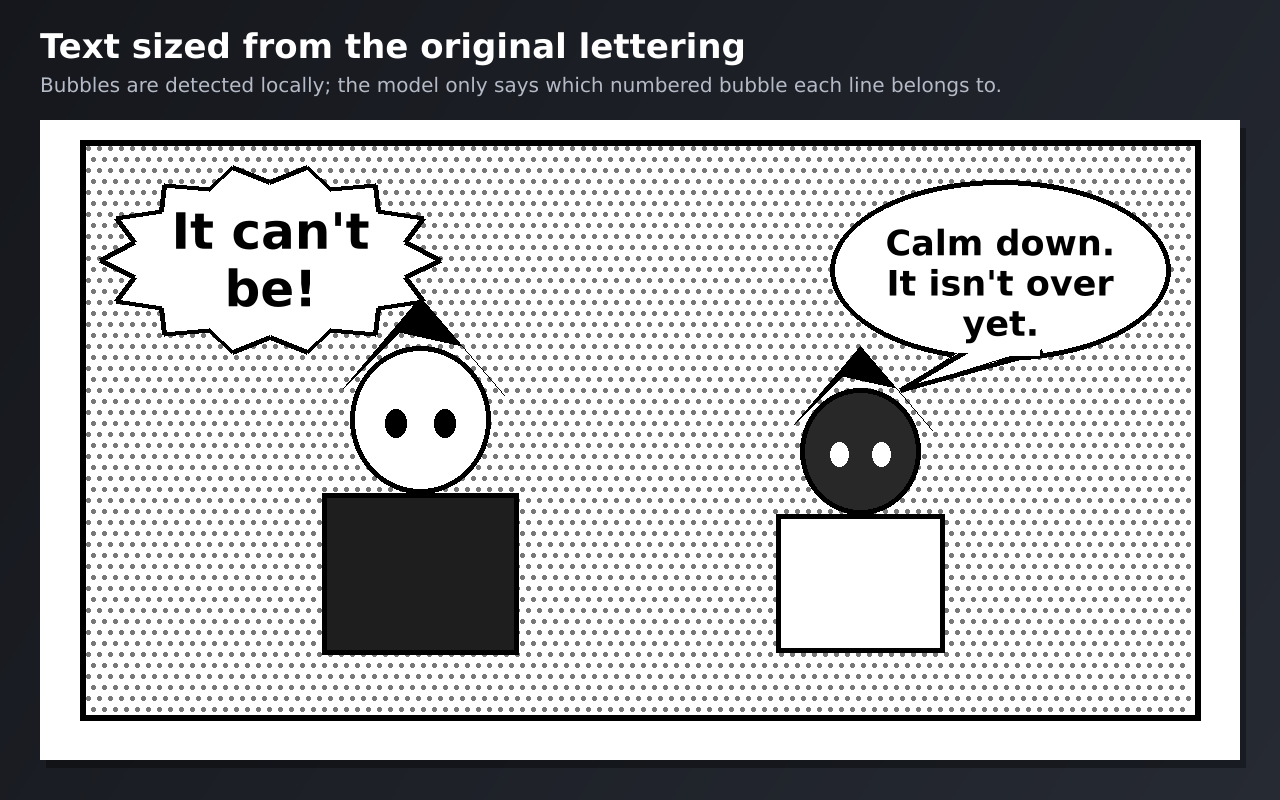
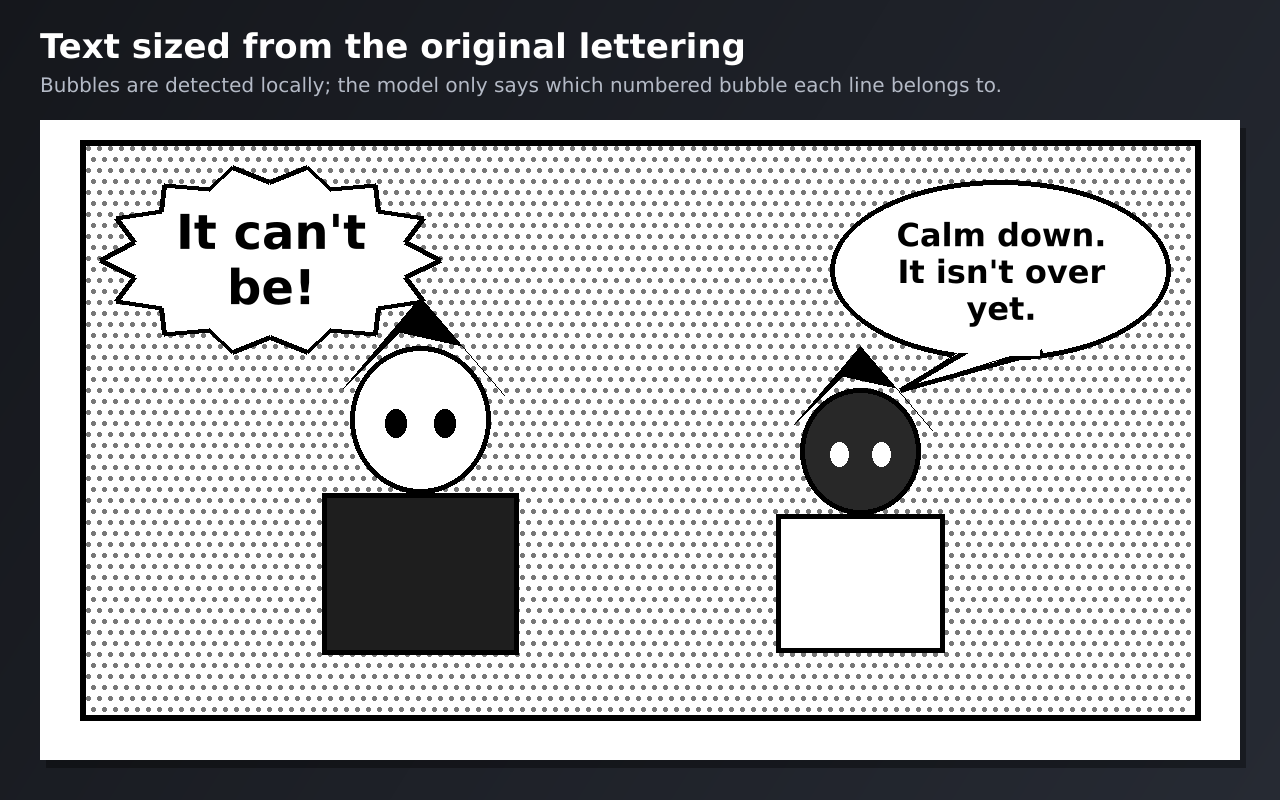
Typesetting: text area is the largest rectangle inside the bubble mask; joined bubbles split at the waist; eraser zone capped; no hyphenation of short words
Fixes the regression where text was centred in a bounding-box band and left the
bubble. Adds a joined bubble to the synthetic demo page and a stress test with
deliberately wrong model boxes.

Claude-Session: https://claude.ai/code/session_01HC7DG1xgeqgY9rhdzbcHRJ

Changed region(s): [[0.6875, 0.2812, 0.875, 0.4375], [0.125, 0.25, 0.2812, 0.3125], [0.1562, 0.3438, 0.25, 0.4062]]

diff --git a/extension/typeset.js b/extension/typeset.js
@@ -46,6 +46,57 @@
     const ix = (1 - k) / 2, iy = (1 - k) / 2;
     return { x: bbox.x + bbox.w * ix, y: bbox.y + bbox.h * iy, w: bbox.w * k, h: bbox.h * k };
   }
+  /**
+   * Largest axis-aligned rectangle (approx.) inside a region, sampled from its
+   * `inside(x,y)` predicate within `bbox` and optionally a row window.
+   * Rows are scanned for their longest inside run; the rectangle is the best
+   * window of consecutive rows × the intersection of their runs.
+   */
+  function inscribedRect(inside, bbox, y0 = bbox.y, y1 = bbox.y + bbox.h) {
+    const step = Math.max(1, Math.round(Math.min(bbox.w, bbox.h) / 60));
+    const rows = [];
+    for (let y = Math.ceil(y0); y < y1; y += step) {
+      let best = null, runStart = null;
+      for (let x = bbox.x; x <= bbox.x + bbox.w; x += step) {
+        const inn = x < bbox.x + bbox.w && inside(x, y);
+        if (inn && runStart === null) runStart = x;
+        if (!inn && runStart !== null) { if (!best || x - runStart > best.w) best = { x: runStart, w: x - runStart }; runStart = null; }
+      }
+      if (runStart !== null) { const end = bbox.x + bbox.w; if (!best || end - runStart > best.w) best = { x: runStart, w: end - runStart }; }
+      rows.push(best ? { y, x0: best.x, x1: best.x + best.w } : null);
+    }
+    let bestArea = 0, bestRect = null;
+    for (let i = 0; i < rows.length; i++) {
+      if (!rows[i]) continue;
+      let x0 = rows[i].x0, x1 = rows[i].x1;
+      for (let j = i; j < rows.length; j++) {
+        if (!rows[j]) break;
+        x0 = Math.max(x0, rows[j].x0); x1 = Math.min(x1, rows[j].x1);
+        if (x1 <= x0) break;
+        const h = rows[j].y - rows[i].y + step, area = (x1 - x0) * h;
+        if (area > bestArea) { bestArea = area; bestRect = { x: x0, y: rows[i].y, w: x1 - x0, h }; }
+      }
+    }
+    if (!bestRect) return null;
+    // small inset so letters don't kiss the outline
+    const k = 0.92;
+    return { x: bestRect.x + bestRect.w * (1 - k) / 2, y: bestRect.y + bestRect.h * (1 - k) / 2, w: bestRect.w * k, h: bestRect.h * k };
+  }
+
+  /** Row (y) with the narrowest inside span between ya and yb — the "waist" between two lobes. */
+  function waistRow(inside, bbox, ya, yb) {
+    const lo = Math.min(ya, yb), hi = Math.max(ya, yb);
+    if (hi - lo < 6) return (lo + hi) / 2;
+    const step = Math.max(1, Math.round((hi - lo) / 40));
+    let best = (lo + hi) / 2, bestW = Infinity;
+    for (let y = lo; y <= hi; y += step) {
+      let w = 0;
+      for (let x = bbox.x; x < bbox.x + bbox.w; x += step) if (inside(x, y)) w++;
+      if (w < bestW) { bestW = w; best = y; }
+    }
+    return best;
+  }
+
   function makeCanvas(w, h) {
     const c = document.createElement("canvas");
     c.width = w; c.height = h;
@@ -184,27 +235,40 @@
       const mul = SIZE_MUL[it.size] || 1;
       if (key) {
         const g = regions.get(key);
-        const { bbox, fillRatio, color } = g.region;
-        const inner = innerRect(bbox, fillRatio);
+        const { bbox, fillRatio, color, inside } = g.region;
         let rect;
         if (g.items.length === 1) {
-          // The detected bubble is authoritative; the model's box is not used
-          // to grow the text area (its coordinates are approximate).
-          rect = inner;
+          // The detected bubble is authoritative: text goes in the largest
+          // rectangle inside its actual shape (the model's box is approximate).
+          rect = inscribedRect(inside, bbox) || innerRect(bbox, fillRatio);
         } else {
-          // Joined bubble: split the interior between its speakers in reading
-          // order (vertical bands), nudged toward each one's own box when given.
-          const idx = g.items.findIndex((j) => j.it === it), n = g.items.length;
-          rect = { x: inner.x, y: inner.y + (inner.h / n) * idx, w: inner.w, h: inner.h / n };
-          if (box) {
-            const bx = clampRect({ x: box.x - box.w * 0.15, y: box.y - box.h * 0.15, w: box.w * 1.3, h: box.h * 1.3 }, inner);
-            if (bx.w * bx.h > rect.w * rect.h * 0.5) rect = bx;
+          // Joined bubble: cut the region at the waists between consecutive
+          // speakers (ordered top-to-bottom by their boxes, else evenly), then
+          // inscribe each lobe.
+          if (!g.cuts) {
+            const n = g.items.length;
+            const centres = g.items.map((j, i) => j.box ? j.box.y + j.box.h / 2 : bbox.y + bbox.h * (i + 0.5) / n);
+            const order = centres.map((c, i) => [c, i]).sort((a, b) => a[0] - b[0]);
+            const edges = [bbox.y];
+            for (let k = 0; k < n - 1; k++) edges.push(waistRow(inside, bbox, order[k][0], order[k + 1][0]));
+            edges.push(bbox.y + bbox.h);
+            g.cuts = new Map(order.map(([, i], k) => [i, [edges[k], edges[k + 1]]]));
           }
+          const idx = g.items.findIndex((j) => j.it === it);
+          const [ya, yb] = g.cuts.get(idx);
+          rect = inscribedRect(inside, bbox, ya, yb) || { x: bbox.x + bbox.w * 0.15, y: ya + (yb - ya) * 0.1, w: bbox.w * 0.7, h: (yb - ya) * 0.8 };
         }
         placements.push({ text, rect, color: G.isDark(color) ? "#fff" : "#000", target: sizeFor(g.letter, mul), minSize: Math.max(7, Math.round(base * 0.4)) });
       } else if (box) {
         const pad = Math.max(4, Math.min(box.w, box.h) * 0.16);
-        const zone = clampRect({ x: box.x - pad, y: box.y - pad, w: box.w + 2 * pad, h: box.h + 2 * pad }, page);
+        let zone = clampRect({ x: box.x - pad, y: box.y - pad, w: box.w + 2 * pad, h: box.h + 2 * pad }, page);
+        // A wrong, oversized model box must not wipe artwork: cap the zone to
+        // ~2.5× the area this text needs at page size, centred on the box.
+        const need = text.length * pageLetter * 0.55 * pageLetter * 1.15 * 2.5;
+        if (zone.w * zone.h > need) {
+          const k = Math.sqrt(need / (zone.w * zone.h));
+          zone = clampRect({ x: zone.x + zone.w * (1 - k) / 2, y: zone.y + zone.h * (1 - k) / 2, w: zone.w * k, h: zone.h * k }, page);
+        }
         const erased = G.eraseTextZone(ctx, pixels, zone, { radius: Math.max(3, Math.round(base * 0.12)) });
         if (erased) {
           const letter = G.estimateLetterSize(pixels, zone, null);

diff --git a/web/typeset.js b/web/typeset.js
@@ -46,6 +46,57 @@
     const ix = (1 - k) / 2, iy = (1 - k) / 2;
     return { x: bbox.x + bbox.w * ix, y: bbox.y + bbox.h * iy, w: bbox.w * k, h: bbox.h * k };
   }
+  /**
+   * Largest axis-aligned rectangle (approx.) inside a region, sampled from its
+   * `inside(x,y)` predicate within `bbox` and optionally a row window.
+   * Rows are scanned for their longest inside run; the rectangle is the best
+   * window of consecutive rows × the intersection of their runs.
+   */
+  function inscribedRect(inside, bbox, y0 = bbox.y, y1 = bbox.y + bbox.h) {
+    const step = Math.max(1, Math.round(Math.min(bbox.w, bbox.h) / 60));
+    const rows = [];
+    for (let y = Math.ceil(y0); y < y1; y += step) {
+      let best = null, runStart = null;
+      for (let x = bbox.x; x <= bbox.x + bbox.w; x += step) {
+        const inn = x < bbox.x + bbox.w && inside(x, y);
+        if (inn && runStart === null) runStart = x;
+        if (!inn && runStart !== null) { if (!best || x - runStart > best.w) best = { x: runStart, w: x - runStart }; runStart = null; }
+      }
+      if (runStart !== null) { const end = bbox.x + bbox.w; if (!best || end - runStart > best.w) best = { x: runStart, w: end - runStart }; }
+      rows.push(best ? { y, x0: best.x, x1: best.x + best.w } : null);
+    }
+    let bestArea = 0, bestRect = null;
+    for (let i = 0; i < rows.length; i++) {
+      if (!rows[i]) continue;
+      let x0 = rows[i].x0, x1 = rows[i].x1;
+      for (let j = i; j < rows.length; j++) {
+        if (!rows[j]) break;
+        x0 = Math.max(x0, rows[j].x0); x1 = Math.min(x1, rows[j].x1);
+        if (x1 <= x0) break;
+        const h = rows[j].y - rows[i].y + step, area = (x1 - x0) * h;
+        if (area > bestArea) { bestArea = area; bestRect = { x: x0, y: rows[i].y, w: x1 - x0, h }; }
+      }
+    }
+    if (!bestRect) return null;
+    // small inset so letters don't kiss the outline
+    const k = 0.92;
+    return { x: bestRect.x + bestRect.w * (1 - k) / 2, y: bestRect.y + bestRect.h * (1 - k) / 2, w: bestRect.w * k, h: bestRect.h * k };
+  }
+
+  /** Row (y) with the narrowest inside span between ya and yb — the "waist" between two lobes. */
+  function waistRow(inside, bbox, ya, yb) {
+    const lo = Math.min(ya, yb), hi = Math.max(ya, yb);
+    if (hi - lo < 6) return (lo + hi) / 2;
+    const step = Math.max(1, Math.round((hi - lo) / 40));
+    let best = (lo + hi) / 2, bestW = Infinity;
+    for (let y = lo; y <= hi; y += step) {
+      let w = 0;
+      for (let x = bbox.x; x < bbox.x + bbox.w; x += step) if (inside(x, y)) w++;
+      if (w < bestW) { bestW = w; best = y; }
+    }
+    return best;
+  }
+
   function makeCanvas(w, h) {
     const c = document.createElement("canvas");
     c.width = w; c.height = h;
@@ -184,27 +235,40 @@
       const mul = SIZE_MUL[it.size] || 1;
       if (key) {
         const g = regions.get(key);
-        const { bbox, fillRatio, color } = g.region;
-        const inner = innerRect(bbox, fillRatio);
+        const { bbox, fillRatio, color, inside } = g.region;
         let rect;
         if (g.items.length === 1) {
-          // The detected bubble is authoritative; the model's box is not used
-          // to grow the text area (its coordinates are approximate).
-          rect = inner;
+          // The detected bubble is authoritative: text goes in the largest
+          // rectangle inside its actual shape (the model's box is approximate).
+          rect = inscribedRect(inside, bbox) || innerRect(bbox, fillRatio);
         } else {
-          // Joined bubble: split the interior between its speakers in reading
-          // order (vertical bands), nudged toward each one's own box when given.
-          const idx = g.items.findIndex((j) => j.it === it), n = g.items.length;
-          rect = { x: inner.x, y: inner.y + (inner.h / n) * idx, w: inner.w, h: inner.h / n };
-          if (box) {
-            const bx = clampRect({ x: box.x - box.w * 0.15, y: box.y - box.h * 0.15, w: box.w * 1.3, h: box.h * 1.3 }, inner);
-            if (bx.w * bx.h > rect.w * rect.h * 0.5) rect = bx;
+          // Joined bubble: cut the region at the waists between consecutive
+          // speakers (ordered top-to-bottom by their boxes, else evenly), then
+          // inscribe each lobe.
+          if (!g.cuts) {
+            const n = g.items.length;
+            const centres = g.items.map((j, i) => j.box ? j.box.y + j.box.h / 2 : bbox.y + bbox.h * (i + 0.5) / n);
+            const order = centres.map((c, i) => [c, i]).sort((a, b) => a[0] - b[0]);
+            const edges = [bbox.y];
+            for (let k = 0; k < n - 1; k++) edges.push(waistRow(inside, bbox, order[k][0], order[k + 1][0]));
+            edges.push(bbox.y + bbox.h);
+            g.cuts = new Map(order.map(([, i], k) => [i, [edges[k], edges[k + 1]]]));
           }
+          const idx = g.items.findIndex((j) => j.it === it);
+          const [ya, yb] = g.cuts.get(idx);
+          rect = inscribedRect(inside, bbox, ya, yb) || { x: bbox.x + bbox.w * 0.15, y: ya + (yb - ya) * 0.1, w: bbox.w * 0.7, h: (yb - ya) * 0.8 };
         }
         placements.push({ text, rect, color: G.isDark(color) ? "#fff" : "#000", target: sizeFor(g.letter, mul), minSize: Math.max(7, Math.round(base * 0.4)) });
       } else if (box) {
         const pad = Math.max(4, Math.min(box.w, box.h) * 0.16);
-        const zone = clampRect({ x: box.x - pad, y: box.y - pad, w: box.w + 2 * pad, h: box.h + 2 * pad }, page);
+        let zone = clampRect({ x: box.x - pad, y: box.y - pad, w: box.w + 2 * pad, h: box.h + 2 * pad }, page);
+        // A wrong, oversized model box must not wipe artwork: cap the zone to
+        // ~2.5× the area this text needs at page size, centred on the box.
+        const need = text.length * pageLetter * 0.55 * pageLetter * 1.15 * 2.5;
+        if (zone.w * zone.h > need) {
+          const k = Math.sqrt(need / (zone.w * zone.h));
+          zone = clampRect({ x: zone.x + zone.w * (1 - k) / 2, y: zone.y + zone.h * (1 - k) / 2, w: zone.w * k, h: zone.h * k }, page);
+        }
         const erased = G.eraseTextZone(ctx, pixels, zone, { radius: Math.max(3, Math.round(base * 0.12)) });
         if (erased) {
           const letter = G.estimateLetterSize(pixels, zone, null);

diff --git a/extension/bubble.js b/extension/bubble.js
@@ -355,13 +355,19 @@
     return wrapInfo(measure, text, maxW).lines;
   }
 
-  function wrapInfo(measure, text, maxW) {
+  function wrapInfo(measure, text, maxW, opts = {}) {
     const words = text.split(/\s+/).filter(Boolean);
     const lines = [];
     let cur = "";
     let broken = false;
+    const minBreakLen = opts.minBreakLen ?? 8;
     for (const w of words) {
       if (measure(w) > maxW) {
+        if ([...w].length < minBreakLen && !opts.force) {
+          // Short word that doesn't fit: report as not fitting rather than splitting it.
+          if (cur) { lines.push(cur); cur = ""; }
+          lines.push(w); broken = true; continue;
+        }
         // break the long word by characters
         broken = true;
         if (cur) { lines.push(cur); cur = ""; }
@@ -411,10 +417,11 @@
         if (!brokenFit) brokenFit = fit;
       }
     }
-    if (wholeFit && (!brokenFit || wholeFit.size >= brokenFit.size * (opts.hyphenRatio ?? 0.7))) return wholeFit;
+    if (wholeFit && (!brokenFit || wholeFit.size >= brokenFit.size * (opts.hyphenRatio ?? 0.6))) return wholeFit;
     if (brokenFit) return brokenFit;
+    // Nothing fits even at minSize: force character breaks so the text at least stays inside.
     setFont(minSize);
-    const { lines, broken } = wrapInfo(measure, text, rect.w);
+    const { lines, broken } = wrapInfo(measure, text, rect.w, { force: true, minBreakLen: 1 });
     return { size: minSize, lines, lineHeight: minSize * lh, broken };
   }
 

diff --git a/web/bubble.js b/web/bubble.js
@@ -355,13 +355,19 @@
     return wrapInfo(measure, text, maxW).lines;
   }
 
-  function wrapInfo(measure, text, maxW) {
+  function wrapInfo(measure, text, maxW, opts = {}) {
     const words = text.split(/\s+/).filter(Boolean);
     const lines = [];
     let cur = "";
     let broken = false;
+    const minBreakLen = opts.minBreakLen ?? 8;
     for (const w of words) {
       if (measure(w) > maxW) {
+        if ([...w].length < minBreakLen && !opts.force) {
+          // Short word that doesn't fit: report as not fitting rather than splitting it.
+          if (cur) { lines.push(cur); cur = ""; }
+          lines.push(w); broken = true; continue;
+        }
         // break the long word by characters
         broken = true;
         if (cur) { lines.push(cur); cur = ""; }
@@ -411,10 +417,11 @@
         if (!brokenFit) brokenFit = fit;
       }
     }
-    if (wholeFit && (!brokenFit || wholeFit.size >= brokenFit.size * (opts.hyphenRatio ?? 0.7))) return wholeFit;
+    if (wholeFit && (!brokenFit || wholeFit.size >= brokenFit.size * (opts.hyphenRatio ?? 0.6))) return wholeFit;
     if (brokenFit) return brokenFit;
+    // Nothing fits even at minSize: force character breaks so the text at least stays inside.
     setFont(minSize);
-    const { lines, broken } = wrapInfo(measure, text, rect.w);
+    const { lines, broken } = wrapInfo(measure, text, rect.w, { force: true, minBreakLen: 1 });
     return { size: minSize, lines, lineHeight: minSize * lh, broken };
   }
 

diff --git a/tests/make-demo-page.py b/tests/make-demo-page.py
@@ -83,7 +83,16 @@ f = ImageFont.truetype(FONT, 24)
 d.text((90, 1270), "Tres horas después...", font=f, fill="black")
 items.append({"box": [90, 1270, 300, 30], "text": "Three hours later...", "size": "small", "kind": "narration"})
 character(600, 1480, 85)
-items.append({"box": bubble(930, 1380, 180, 80, "...lo siento.", 26, tail=(760, 1440)), "text": "...I'm sorry.", "size": "small"})
+# joined bubble: two overlapping ellipses sharing one outline (two speakers)
+d.ellipse([760, 1300, 1120, 1450], fill="white", outline="black", width=5)
+d.ellipse([820, 1420, 1140, 1560], fill="white", outline="black", width=5)
+d.ellipse([826, 1426, 1134, 1554], fill="white")  # erase the inner outline where they overlap
+d.ellipse([766, 1306, 1114, 1444], fill="white")
+f2 = ImageFont.truetype(FONT, 26)
+d.text((850, 1350), "¿Y si no vuelve?", font=f2, fill="black")
+d.text((870, 1470), "Volverá.", font=f2, fill="black")
+items.append({"box": [850, 1350, 210, 30], "text": "And if he doesn't come back?", "size": "normal"})
+items.append({"box": [870, 1470, 110, 30], "text": "He will.", "size": "normal"})
 
 out = sys.argv[1] if len(sys.argv) > 1 else "fixtures"
 img.save(f"{out}/demo-page.png")
